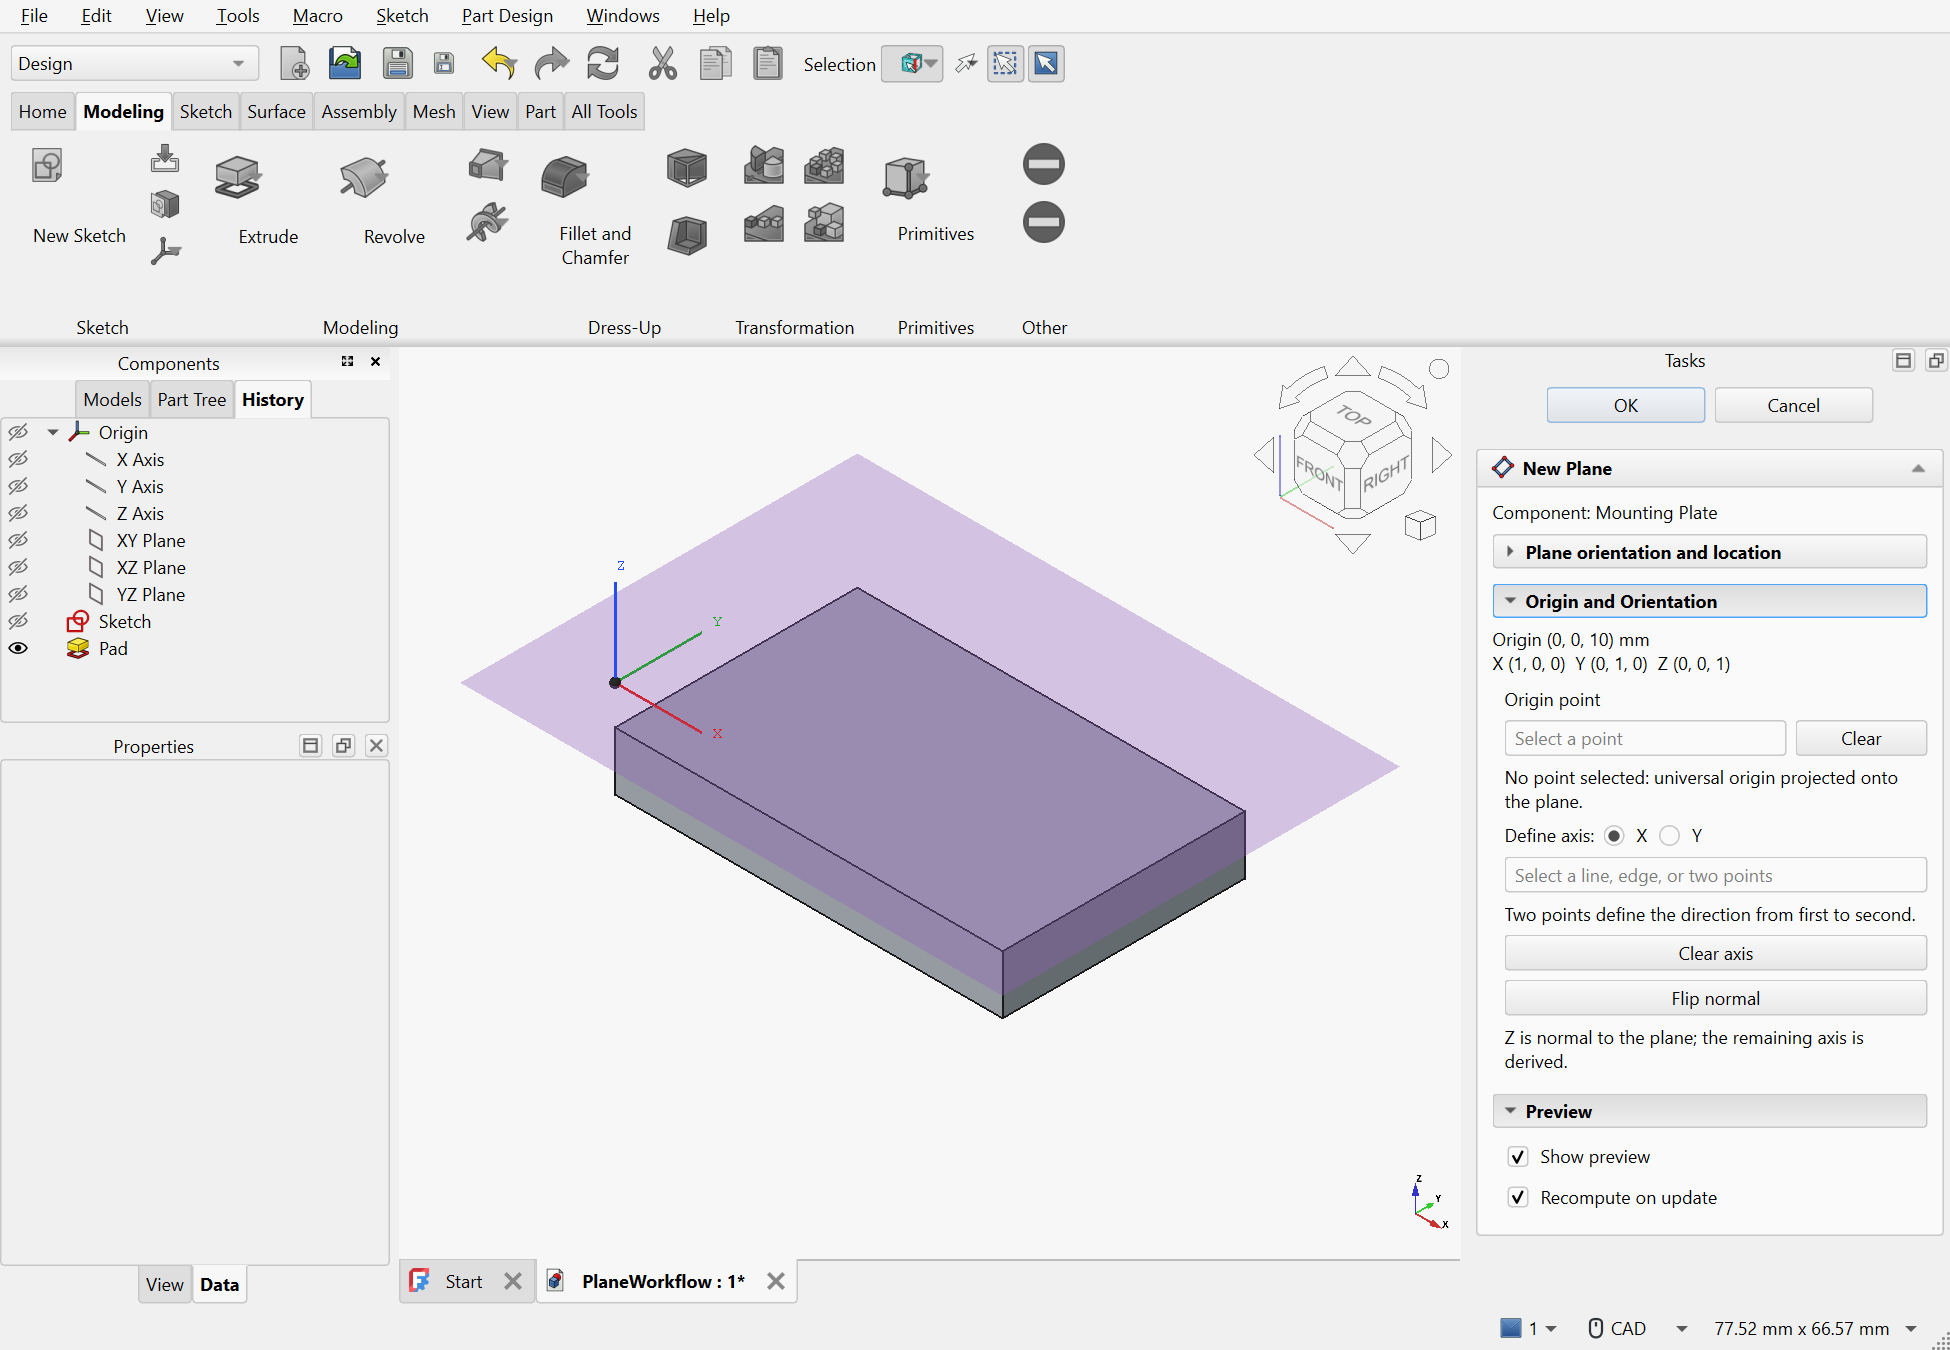
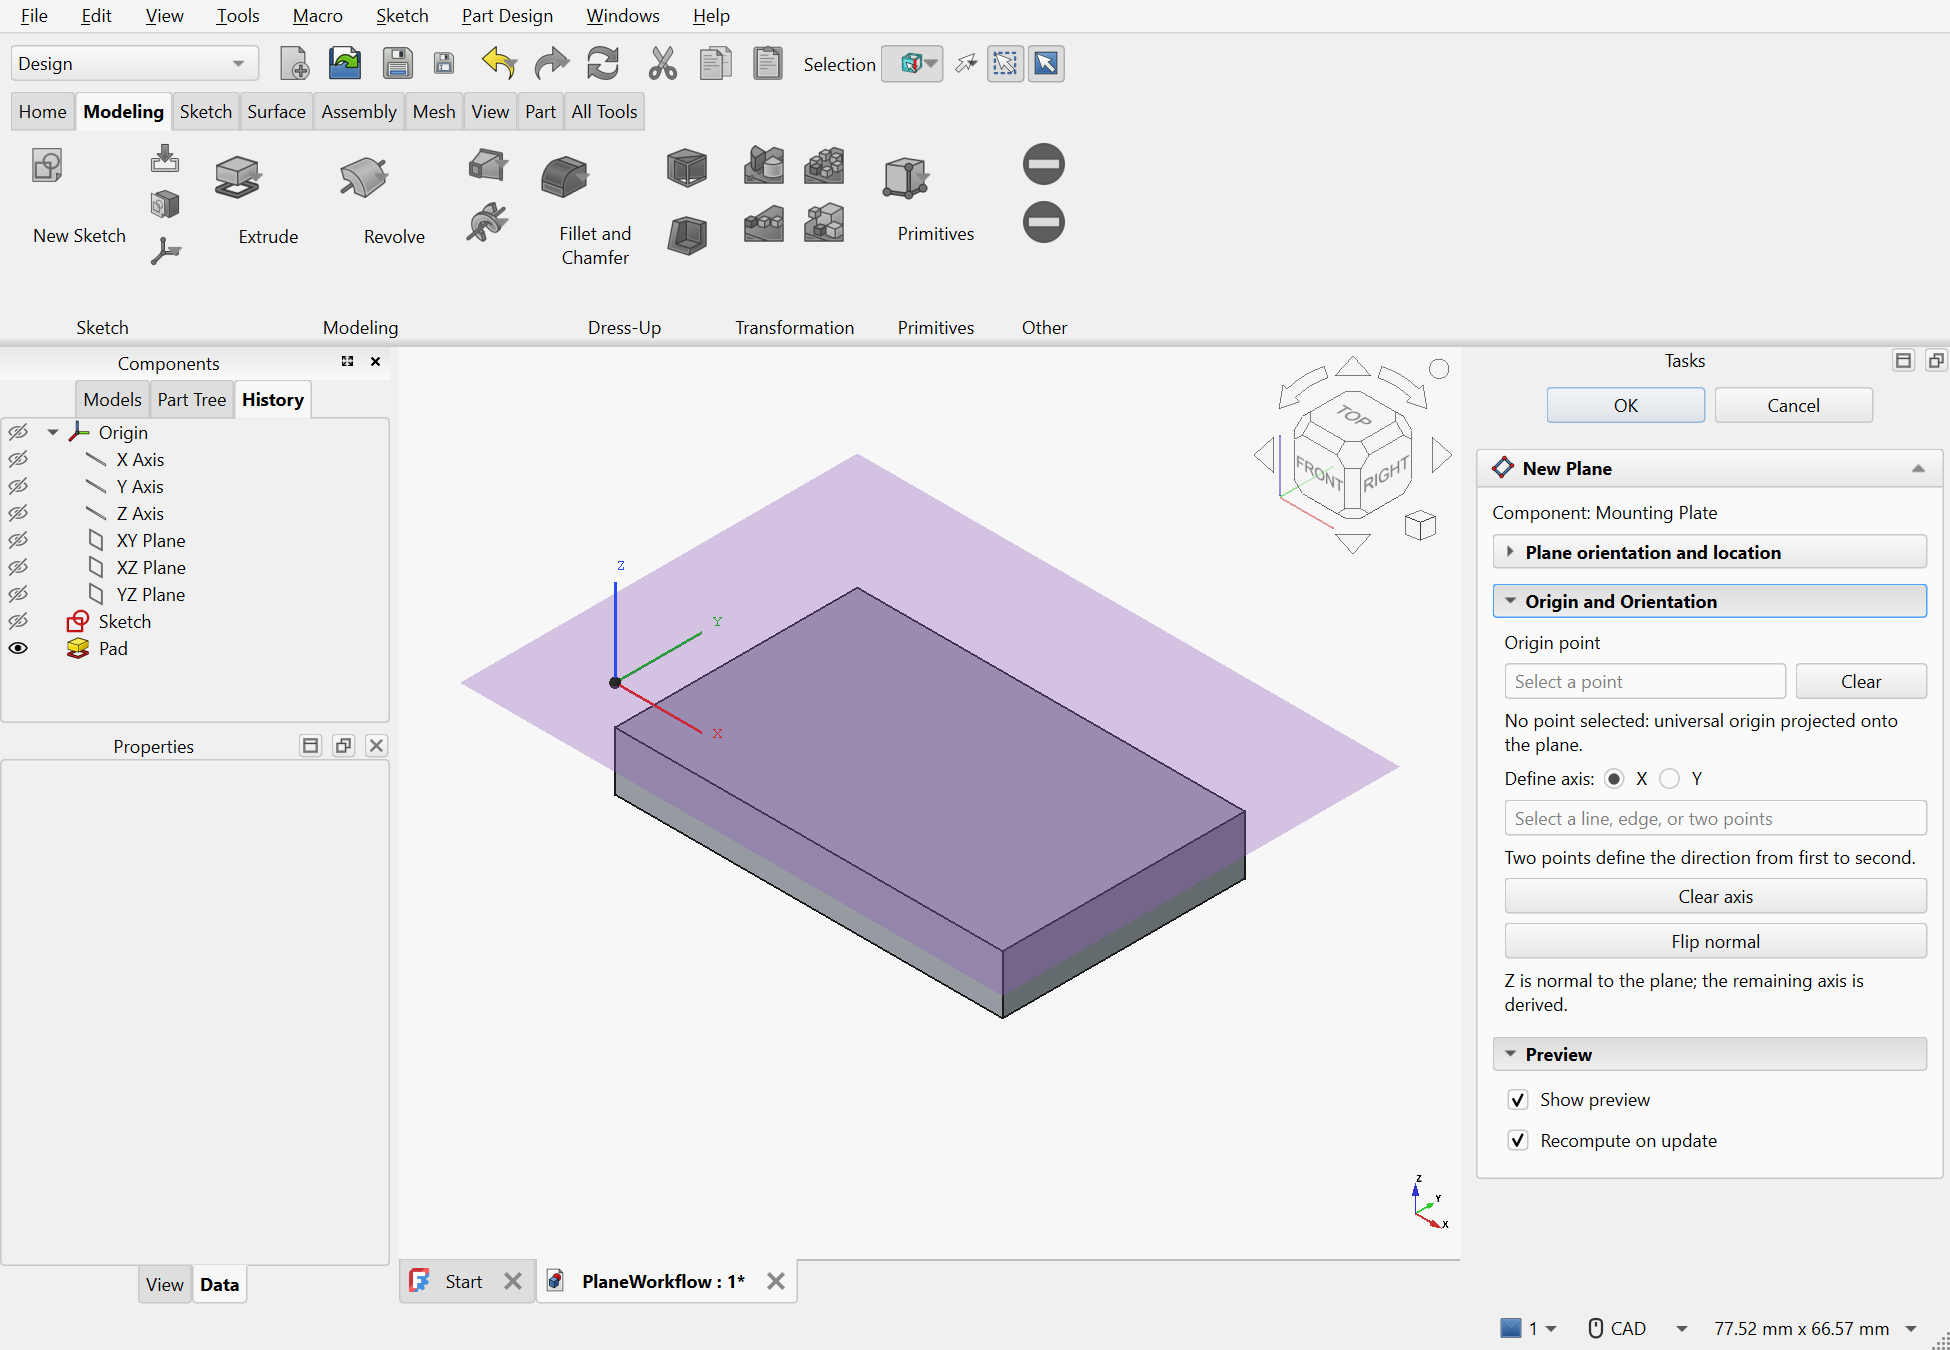
Simplify plane origin and orientation preview readouts

Changed region(s): [[0.7692, 0.4667, 1.0, 0.9022]]

diff --git a/ai-instructions/ui-ux-specs/TASK_PANEL.md b/ai-instructions/ui-ux-specs/TASK_PANEL.md
@@ -34,8 +34,10 @@ Owner direction: New Plane opens in the right-hand Tasks panel. Remove the
 Select geometry/Enter values dropdown and the separate Select button. Geometry
 selection is active immediately; retain the XY/XZ/YZ plane shortcuts. Once the
 selected elements define a plane, show a purple preview with its origin and
-orientation. A combined **Origin and Orientation** section expands for adjustments,
-with current values readable while collapsed. Origin accepts only a selected point;
+orientation. A combined **Origin and Orientation** section expands for adjustments.
+Owner refinement: remove origin-coordinate and X/Y/Z-vector readouts from this
+section, including its collapsed summary. Retain the origin marker and axes in the
+3D preview. Origin accepts only a selected point;
 clearing/deselecting that point defaults to the universal origin projected onto the
 plane. Choose X or Y, then use a line, edge or two points to define that axis. The
 proposal uses first-to-second point order for direction and derives the other axis
@@ -50,7 +52,7 @@ This is a design revision, not an installed workflow. The native Qt prototype
 uses a disposable plane-selection example and transient overlay; general
 multi-reference solving, final plane creation and persistence are not implemented.
 Direct screenshot review remains pending. Revised session `bb9622ce36bb`, fingerprint
[2 lines of base64/hex data omitted]
 [combined section](evidence/plane-task-20261121/combined.png),
 [flipped normal](evidence/plane-task-20261121/flipped.png),
 [native prototype checks](evidence/plane-task-20261121/combined-prototype.json).

diff --git a/ai-instructions/WORK_STATE.md b/ai-instructions/WORK_STATE.md
@@ -5,7 +5,9 @@
 The owner paused selected-plane New Sketch integration to redesign New Plane first.
 The revised native Tasks prototype removes the mode dropdown/Select button, keeps
 origin-plane shortcuts, and shows a temporary purple plane with origin/X/Y/Z frame
-and collapsible value summaries. The latest revision combines Origin and Orientation,
+and a combined Origin and Orientation section. The latest owner refinement removes
+its numeric origin-coordinate and X/Y/Z-vector summaries while retaining the 3D frame.
+The combined section
 limits origin input to a point with projected universal-origin fallback, and offers
 X/Y reference assignment plus Flip normal. Native presentation-fixture checks passed
 for origin clear, X/Y assignment and flipping Z without moving the plane.
